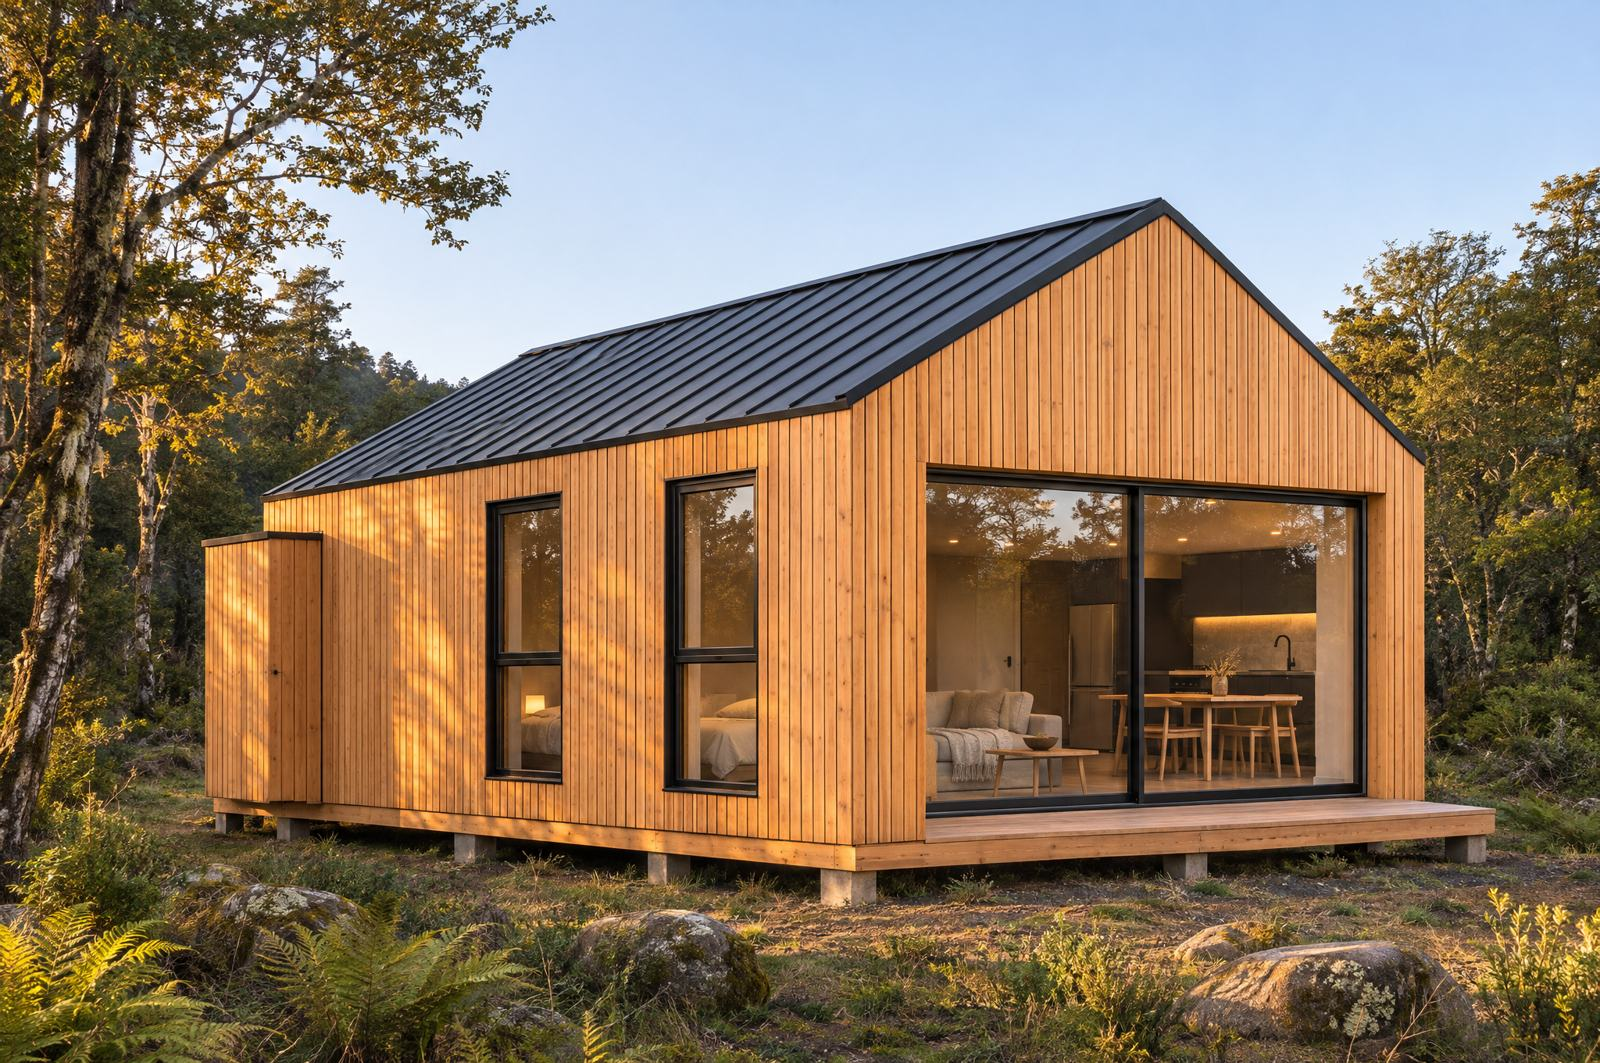
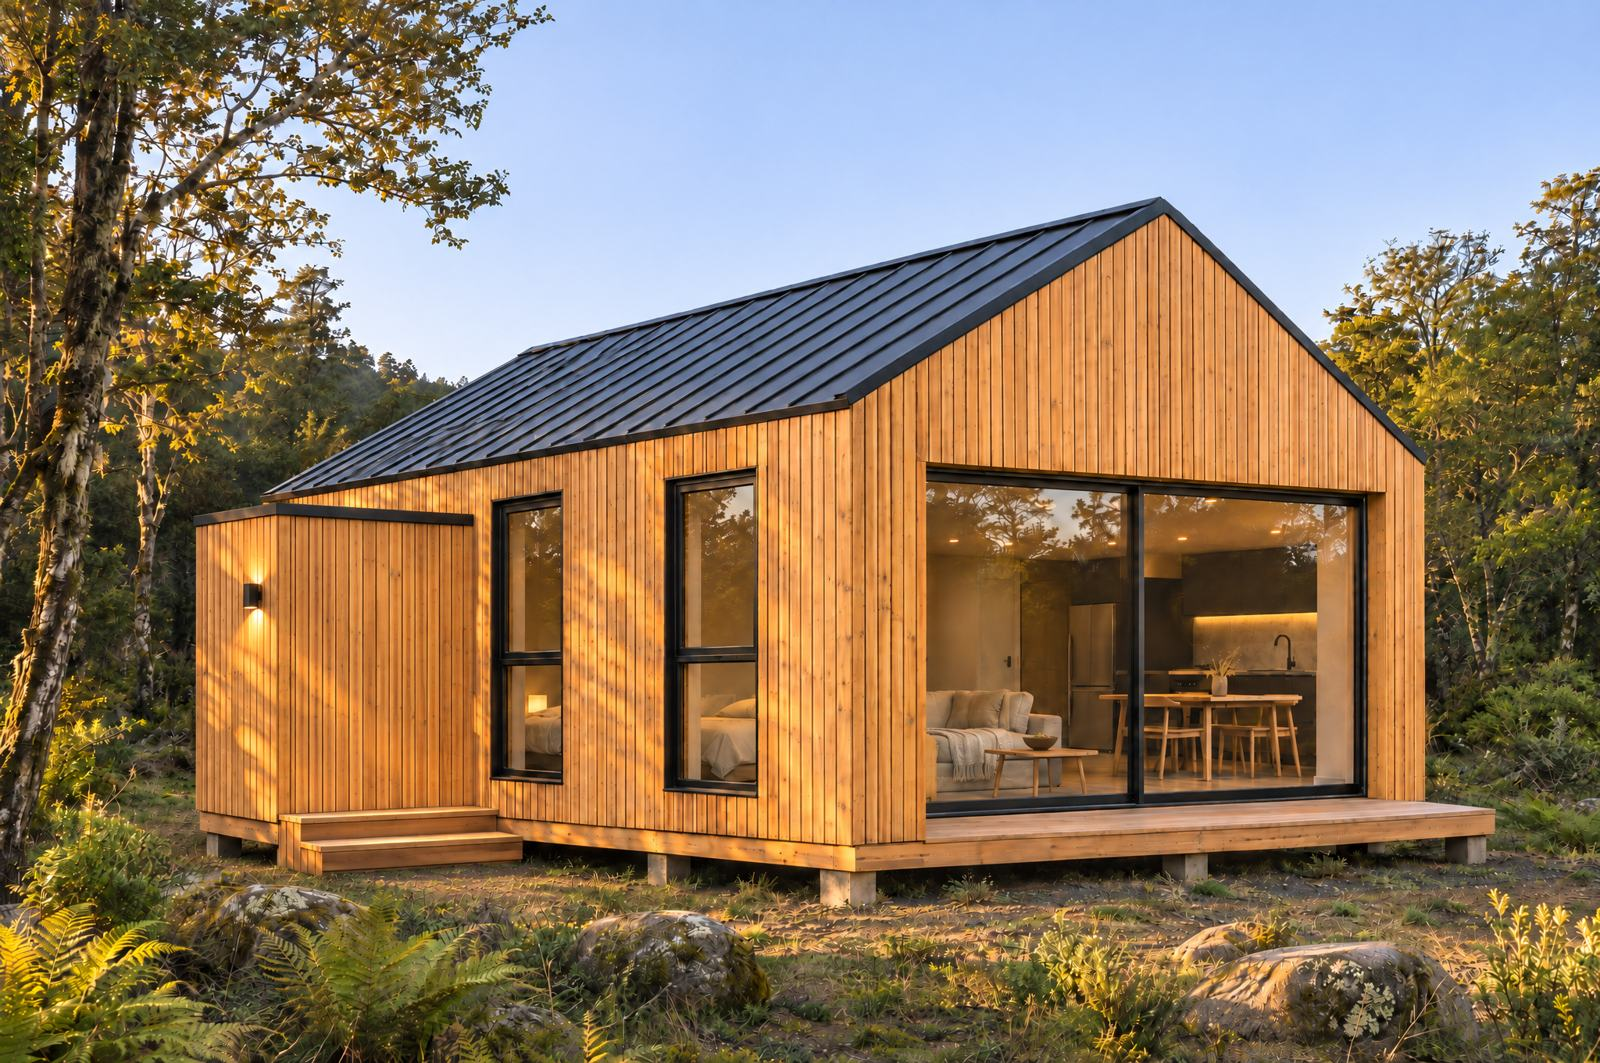
Noki: atributos en todos los modelos y Noki II 70 con imágenes corregidas
- Sección de atributos (ubicación flexible, velocidad, eficiencia energética,
  estructura de madera laminada, diseño minimalista, materiales premium) en la
  ficha de cada modelo y en el listado.
- Noki II 70: chiflonera como acceso cerrado hacia el frente, living sin puertas
  de dormitorio, fachada sin nicho y dormitorio según la planta.

Changed region(s): [[0.0, 0.0, 1.0, 1.0], [0.625, 0.7451, 0.6562, 0.7761]]

diff --git a/app/noki/modelos/Atributos.tsx b/app/noki/modelos/Atributos.tsx
@@ -1,0 +1,43 @@
+// Atributos de Noki, con íconos de línea simples.
+import { C } from '../shared'
+
+const trazo = { fill: 'none', stroke: 'currentColor', strokeWidth: 1.4, strokeLinecap: 'round' as const, strokeLinejoin: 'round' as const }
+
+const ICONOS: Record<string, React.ReactNode> = {
+  ubicacion: (<><path {...trazo} d="M24 40s-11-12.2-11-20a11 11 0 0 1 22 0c0 7.8-11 20-11 20z" /><circle {...trazo} cx="24" cy="20" r="4" /><path {...trazo} d="M10 42h28" /></>),
+  velocidad: (<><circle {...trazo} cx="24" cy="25" r="15" /><path {...trazo} d="M24 16v9l6 4M20 6h8M24 6v4" /></>),
+  energia: (<><path {...trazo} d="M10 8v32M20 8v32" /><path {...trazo} d="M10 12l10 4-10 4 10 4-10 4 10 4-10 4" /><path {...trazo} d="M38 16l-8 8 8 8" /></>),
+  laminada: (<><path {...trazo} d="M8 14h32v20H8z" /><path {...trazo} d="M8 19h32M8 24h32M8 29h32" /><path {...trazo} d="M14 14v20" /></>),
+  minimalista: (<><path {...trazo} d="M10 40V22l14-12 14 12v18z" /><path {...trazo} d="M20 40v-9h8v9" /></>),
+  premium: (<><path {...trazo} d="M10 8h28v32H10z" /><path {...trazo} d="M19 8c-3 6-3 26 0 32M29 8c3 8 3 24 0 32M24 8v32" /></>),
+}
+
+export const ATRIBUTOS = [
+  { k: 'ubicacion', t: 'Ubicación flexible', d: 'Fabricada en planta y montada en tu terreno, del desierto a la Patagonia.' },
+  { k: 'velocidad', t: 'Velocidad', d: 'La estructura se fabrica en planta mientras se preparan las fundaciones, y se monta en semanas.' },
+  { k: 'energia', t: 'Eficiencia energética', d: 'Paneles estructurales térmicos FURŌ con aislación continua: más confort y menos gasto en calefacción.' },
+  { k: 'laminada', t: 'Estructura de madera laminada', d: 'Componentes prefabricados en madera, cortados con precisión de fábrica.' },
+  { k: 'minimalista', t: 'Diseño minimalista', d: 'Volúmenes simples a dos aguas, espacios abiertos y mucha luz natural.' },
+  { k: 'premium', t: 'Materiales premium', d: 'Pino termotratado con Cutek, interiores en pino clear y porcelanato en zonas húmedas.' },
+]
+
+export default function Atributos({ fondo = '#f4f1eb' }: { fondo?: string }) {
+  return (
+    <section style={{ background: fondo, padding: 'clamp(56px,8vw,96px) 16px' }}>
+      <style>{`
+        .noki-attr { display: grid; grid-template-columns: repeat(3, 1fr); gap: 56px 40px; max-width: 1080px; margin: 0 auto; }
+        @media (max-width: 900px) { .noki-attr { grid-template-columns: 1fr 1fr; gap: 44px 24px; } }
+        @media (max-width: 560px) { .noki-attr { grid-template-columns: 1fr; gap: 40px; } }
+      `}</style>
+      <div className="noki-attr">
+        {ATRIBUTOS.map(a => (
+          <div key={a.k} style={{ textAlign: 'center' }}>
+            <svg viewBox="0 0 48 48" width="52" height="52" aria-hidden="true" style={{ color: C.dark, display: 'block', margin: '0 auto 18px' }}>{ICONOS[a.k]}</svg>
+            <p style={{ fontSize: 13, fontWeight: 500, letterSpacing: '0.18em', textTransform: 'uppercase', color: C.dark, marginBottom: 10 }}>{a.t}</p>
+            <p style={{ fontSize: 15, fontWeight: 300, color: C.mid, lineHeight: 1.65, maxWidth: 300, margin: '0 auto' }}>{a.d}</p>
+          </div>
+        ))}
+      </div>
+    </section>
+  )
+}

diff --git a/app/noki/modelos/ModeloTemplate.tsx b/app/noki/modelos/ModeloTemplate.tsx
@@ -1,6 +1,7 @@
 'use client'
 import { useCallback, useEffect, useState } from 'react'
 import Link from 'next/link'
+import Atributos from './Atributos'
 import NokiChrome, { C, ctaBtn, FadeUp, AbrirFormularioButton } from '../shared'
 import { MODELOS, INCLUYE, LETRA_CHICA, formatoUF, formatoM2, modeloPorSlug, type Modelo } from './datos'
 
@@ -142,6 +143,8 @@ export function ModeloDetail({ slug }: { slug: string }) {
           {m.fotosReales ? `Fotos reales — ${m.nombre}.` : 'Imágenes referenciales. Terminaciones, paisaje y mobiliario pueden variar.'}
         </p>
       </section>
+
+      <div style={{ marginTop: 72 }}><Atributos /></div>
 
       {(m.planoImg || m.planoPdf) && (
         <section className="mf-wrap" style={{ padding: '88px 0 0' }}>

diff --git a/app/noki/modelos/page.tsx b/app/noki/modelos/page.tsx
@@ -1,5 +1,6 @@
 'use client'
 import Link from 'next/link'
+import Atributos from './Atributos'
 import NokiChrome, { C, serif, FadeUp } from '../shared'
 import { MODELOS, LETRA_CHICA, formatoM2, type Modelo } from './datos'
 
@@ -60,6 +61,8 @@ export default function Modelos() {
         </div>
         {MODELOS.map(m => <ModeloTile key={m.slug} m={m} />)}
       </div>
+
+      <div style={{ marginTop: 6 }}><Atributos /></div>
 
       <p style={{ fontSize: 11.5, fontWeight: 300, color: C.muted, lineHeight: 1.7, maxWidth: 860, margin: '0 auto', padding: '24px 20px 72px', textAlign: 'center' }}>
         {LETRA_CHICA}
